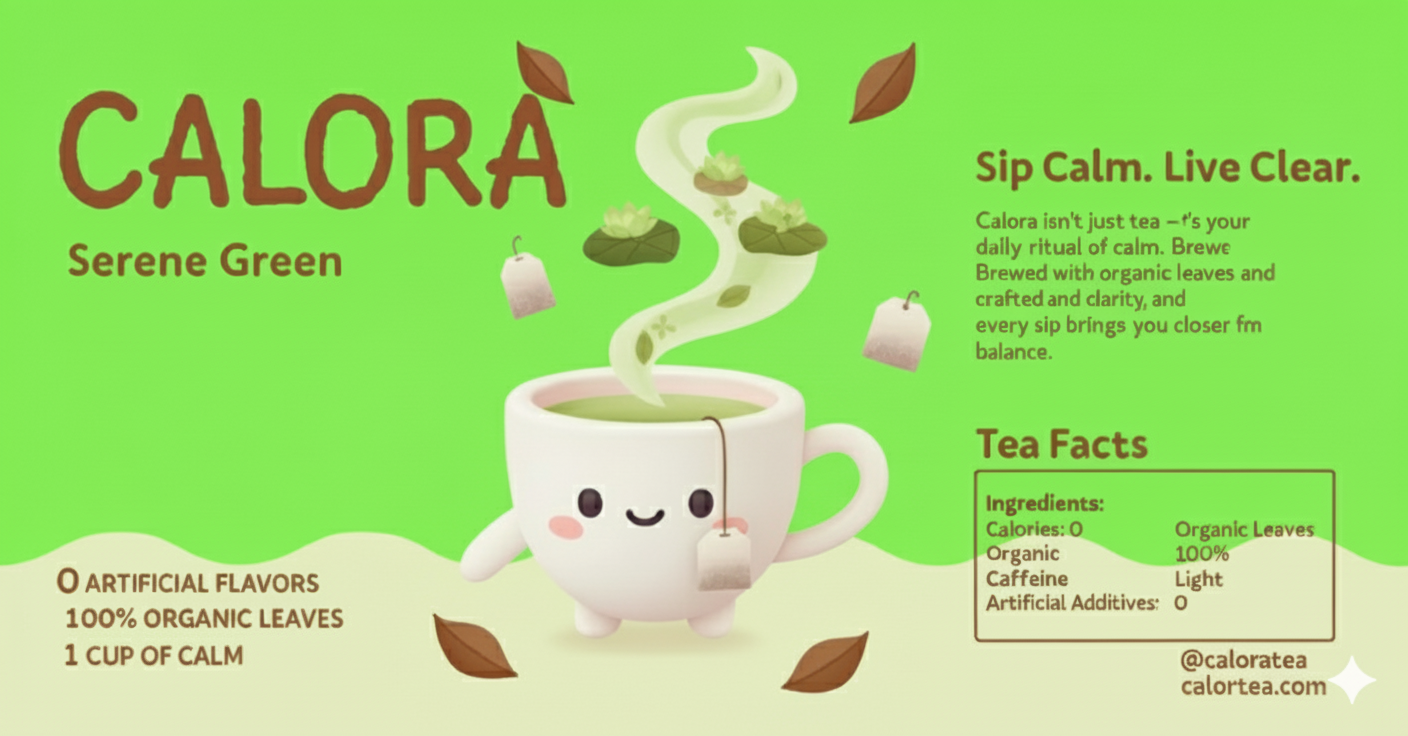
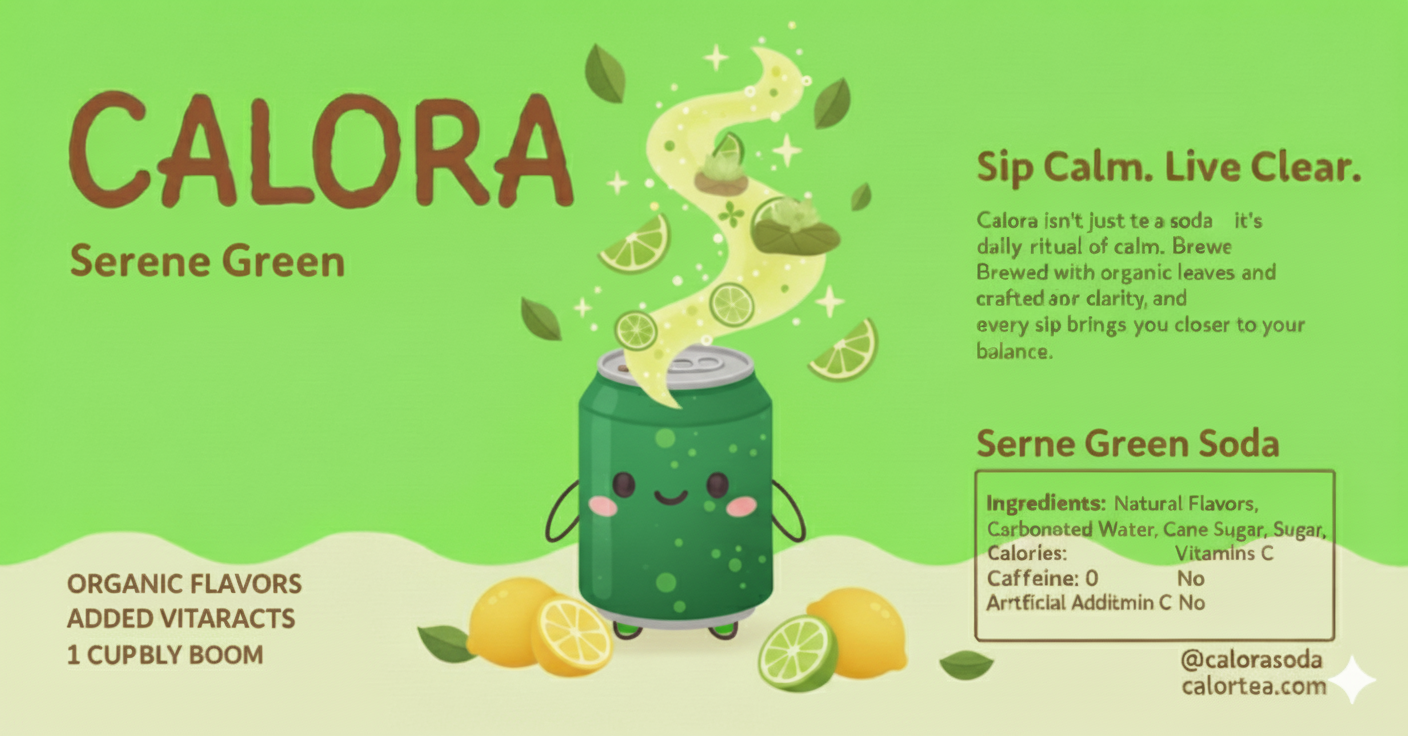
rebranding

diff --git a/sections/Hero.tsx b/sections/Hero.tsx
@@ -14,7 +14,6 @@ import { Group } from "three";
 gsap.registerPlugin(ScrollTrigger, SplitText);
 
 export default function Hero() {
-
   // const isDesktop = useMediaQuery({ minWidth: 768 });
   const FLOATING_SPEED = 1.5;
 
@@ -154,10 +153,14 @@ export default function Hero() {
         .to(can2Ref.current.rotation, { z: 0 }, 0)
         .to(can3Ref.current.position, { x: -0.3, y: 0, z: -1 }, 0)
         .to(can3Ref.current.rotation, { z: 0.5 }, 0)
-        .to(groupRef.current?.position, { x: 1, y: -0.5, ease: 'sine.inOut' }, 0);
+        .to(
+          groupRef.current?.position,
+          { x: 1, y: -0.5, ease: "sine.inOut" },
+          0
+        );
     };
 
-    if(window.innerWidth >= 768) {
+    if (window.innerWidth >= 768) {
       setup3DAnimations();
     }
   }, []);
@@ -173,7 +176,7 @@ export default function Hero() {
               rotationIntensity={0.5}
               floatingRange={[-0.1, 0.1]}
             >
-              <SodaCan ref={can1Ref} flavor="blackLotus" />
+              <SodaCan ref={can1Ref} flavor="blissfullBerry" />
             </Float>
           </group>
 
@@ -194,7 +197,7 @@ export default function Hero() {
             rotationIntensity={0.5}
             floatingRange={[-0.1, 0.1]}
           >
-            <SodaCan ref={can3Ref} flavor="blissfullBerry" />
+            <SodaCan ref={can3Ref} flavor="blackLotus" />
           </Float>
         </group>
         {/* <OrbitControls /> */}
@@ -238,9 +241,9 @@ export default function Hero() {
                 </span>
               </h2>
               <p className="hero2-body w-full md:w-[95%] mt-5 text-lg max-md:text-center text-sky-950/80">
-                Our tea is crafted with handpicked organic leaves and soothing
-                natural herbs. We never use artificial flavors or preservatives.
-                Explore all three blends and discover your moment of calm!
+                Our soda is powered with bold flavors and real ingredients. No
+                artificial junk, no compromises. Try all three variants and
+                unleash your spark!
               </p>
             </div>
           </div>

diff --git a/components/SodaCan.tsx b/components/SodaCan.tsx
@@ -9,7 +9,7 @@ useGLTF.preload("/Soda-can.gltf");
 const flavorTextures = {
   sereneGreen: "/labels/calora-green.png",
   blackLotus: "/labels/calora-black.png",
-  blissfullBerry: "/labels/calora-pink.png",
+  blissfullBerry: "/labels/calora-red.png",
 };
 
 const metalMaterial = new THREE.MeshStandardMaterial({
